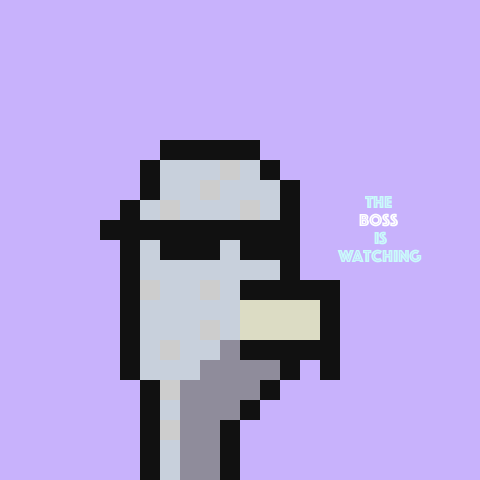
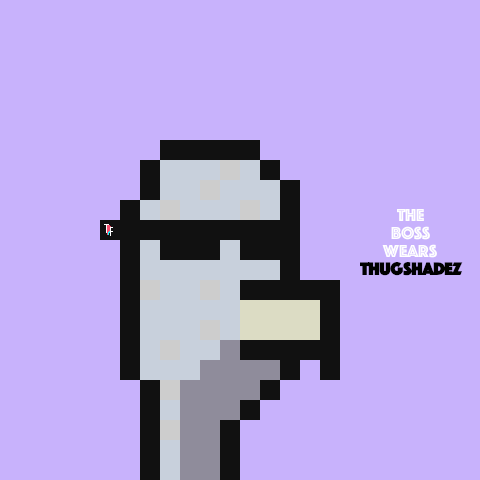
Add files via upload

Changed region(s): [[0.6875, 0.4062, 0.9688, 0.5938], [0.2188, 0.4688, 0.25, 0.5]]

diff --git a/index.html b/index.html
@@ -1,1 +1,1 @@
-<!doctype html><html lang="en"><head><meta charset="utf-8"/><link rel="icon" href="/favicon-16x16.png"/><meta name="viewport" content="width=device-width,initial-scale=1"/><meta name="theme-color" content="#000000"/><meta name="description" content="thugbirdz yo"/><script type="text/javascript" src="Scripts/bootstrap.min.js"></script><script type="text/javascript" src="Scripts/jquery-2.1.1.min.js"></script><link rel="stylesheet" href="https://stackpath.bootstrapcdn.com/bootstrap/4.3.1/css/bootstrap.min.css"/><title>finance that is thug yo</title><script src="https://code.jquery.com/jquery-3.2.1.slim.min.js" integrity="sha384-KJ3o2DKtIkvYIK3UENzmM7KCkRr/rE9/Qpg6aAZGJwFDMVNA/GpGFF93hXpG5KkN" crossorigin="anonymous"></script><script src="https://cdnjs.cloudflare.com/ajax/libs/popper.js/1.12.9/umd/popper.min.js" integrity="sha384-ApNbgh9B+Y1QKtv3Rn7W3mgPxhU9K/ScQsAP7hUibX39j7fakFPskvXusvfa0b4Q" crossorigin="anonymous"></script><script src="https://maxcdn.bootstrapcdn.com/bootstrap/4.0.0/js/bootstrap.min.js" integrity="sha384-JZR6Spejh4U02d8jOt6vLEHfe/JQGiRRSQQxSfFWpi1MquVdAyjUar5+76PVCmYl" crossorigin="anonymous"></script><link href="/static/css/main.79418086.chunk.css" rel="stylesheet"></head><body><noscript>You need to enable JavaScript to run this app.</noscript><div id="root"></div><script>!function(e){function t(t){for(var n,i,a=t[0],c=t[1],l=t[2],s=0,p=[];s<a.length;s++)i=a[s],Object.prototype.hasOwnProperty.call(o,i)&&o[i]&&p.push(o[i][0]),o[i]=0;for(n in c)Object.prototype.hasOwnProperty.call(c,n)&&(e[n]=c[n]);for(f&&f(t);p.length;)p.shift()();return u.push.apply(u,l||[]),r()}function r(){for(var e,t=0;t<u.length;t++){for(var r=u[t],n=!0,a=1;a<r.length;a++){var c=r[a];0!==o[c]&&(n=!1)}n&&(u.splice(t--,1),e=i(i.s=r[0]))}return e}var n={},o={1:0},u=[];function i(t){if(n[t])return n[t].exports;var r=n[t]={i:t,l:!1,exports:{}};return e[t].call(r.exports,r,r.exports,i),r.l=!0,r.exports}i.e=function(e){var t=[],r=o[e];if(0!==r)if(r)t.push(r[2]);else{var n=new Promise((function(t,n){r=o[e]=[t,n]}));t.push(r[2]=n);var u,a=document.createElement("script");a.charset="utf-8",a.timeout=120,i.nc&&a.setAttribute("nonce",i.nc),a.src=function(e){return i.p+"static/js/"+({}[e]||e)+"."+{3:"16f1c55b"}[e]+".chunk.js"}(e);var c=new Error;u=function(t){a.onerror=a.onload=null,clearTimeout(l);var r=o[e];if(0!==r){if(r){var n=t&&("load"===t.type?"missing":t.type),u=t&&t.target&&t.target.src;c.message="Loading chunk "+e+" failed.\n("+n+": "+u+")",c.name="ChunkLoadError",c.type=n,c.request=u,r[1](c)}o[e]=void 0}};var l=setTimeout((function(){u({type:"timeout",target:a})}),12e4);a.onerror=a.onload=u,document.head.appendChild(a)}return Promise.all(t)},i.m=e,i.c=n,i.d=function(e,t,r){i.o(e,t)||Object.defineProperty(e,t,{enumerable:!0,get:r})},i.r=function(e){"undefined"!=typeof Symbol&&Symbol.toStringTag&&Object.defineProperty(e,Symbol.toStringTag,{value:"Module"}),Object.defineProperty(e,"__esModule",{value:!0})},i.t=function(e,t){if(1&t&&(e=i(e)),8&t)return e;if(4&t&&"object"==typeof e&&e&&e.__esModule)return e;var r=Object.create(null);if(i.r(r),Object.defineProperty(r,"default",{enumerable:!0,value:e}),2&t&&"string"!=typeof e)for(var n in e)i.d(r,n,function(t){return e[t]}.bind(null,n));return r},i.n=function(e){var t=e&&e.__esModule?function(){return e.default}:function(){return e};return i.d(t,"a",t),t},i.o=function(e,t){return Object.prototype.hasOwnProperty.call(e,t)},i.p="/",i.oe=function(e){throw console.error(e),e};var a=this.webpackJsonpthugsite=this.webpackJsonpthugsite||[],c=a.push.bind(a);a.push=t,a=a.slice();for(var l=0;l<a.length;l++)t(a[l]);var f=c;r()}([])</script><script src="/static/js/2.a4854e35.chunk.js"></script><script src="/static/js/main.5f388c5b.chunk.js"></script></body></html>
+<!doctype html><html lang="en"><head><meta charset="utf-8"/><link rel="icon" href="/favicon-16x16.png"/><meta name="viewport" content="width=device-width,initial-scale=1"/><meta name="theme-color" content="#000000"/><meta name="description" content="thugbirdz yo"/><script type="text/javascript" src="Scripts/bootstrap.min.js"></script><script type="text/javascript" src="Scripts/jquery-2.1.1.min.js"></script><link rel="stylesheet" href="https://stackpath.bootstrapcdn.com/bootstrap/4.3.1/css/bootstrap.min.css"/><title>let's get this BREAD</title><script src="https://code.jquery.com/jquery-3.2.1.slim.min.js" integrity="sha384-KJ3o2DKtIkvYIK3UENzmM7KCkRr/rE9/Qpg6aAZGJwFDMVNA/GpGFF93hXpG5KkN" crossorigin="anonymous"></script><script src="https://cdnjs.cloudflare.com/ajax/libs/popper.js/1.12.9/umd/popper.min.js" integrity="sha384-ApNbgh9B+Y1QKtv3Rn7W3mgPxhU9K/ScQsAP7hUibX39j7fakFPskvXusvfa0b4Q" crossorigin="anonymous"></script><script src="https://maxcdn.bootstrapcdn.com/bootstrap/4.0.0/js/bootstrap.min.js" integrity="sha384-JZR6Spejh4U02d8jOt6vLEHfe/JQGiRRSQQxSfFWpi1MquVdAyjUar5+76PVCmYl" crossorigin="anonymous"></script><link href="/static/css/main.79418086.chunk.css" rel="stylesheet"></head><body><noscript>You need to enable JavaScript to run this app.</noscript><div id="root"></div><script>!function(e){function t(t){for(var n,i,a=t[0],c=t[1],l=t[2],s=0,p=[];s<a.length;s++)i=a[s],Object.prototype.hasOwnProperty.call(o,i)&&o[i]&&p.push(o[i][0]),o[i]=0;for(n in c)Object.prototype.hasOwnProperty.call(c,n)&&(e[n]=c[n]);for(f&&f(t);p.length;)p.shift()();return u.push.apply(u,l||[]),r()}function r(){for(var e,t=0;t<u.length;t++){for(var r=u[t],n=!0,a=1;a<r.length;a++){var c=r[a];0!==o[c]&&(n=!1)}n&&(u.splice(t--,1),e=i(i.s=r[0]))}return e}var n={},o={1:0},u=[];function i(t){if(n[t])return n[t].exports;var r=n[t]={i:t,l:!1,exports:{}};return e[t].call(r.exports,r,r.exports,i),r.l=!0,r.exports}i.e=function(e){var t=[],r=o[e];if(0!==r)if(r)t.push(r[2]);else{var n=new Promise((function(t,n){r=o[e]=[t,n]}));t.push(r[2]=n);var u,a=document.createElement("script");a.charset="utf-8",a.timeout=120,i.nc&&a.setAttribute("nonce",i.nc),a.src=function(e){return i.p+"static/js/"+({}[e]||e)+"."+{3:"16f1c55b"}[e]+".chunk.js"}(e);var c=new Error;u=function(t){a.onerror=a.onload=null,clearTimeout(l);var r=o[e];if(0!==r){if(r){var n=t&&("load"===t.type?"missing":t.type),u=t&&t.target&&t.target.src;c.message="Loading chunk "+e+" failed.\n("+n+": "+u+")",c.name="ChunkLoadError",c.type=n,c.request=u,r[1](c)}o[e]=void 0}};var l=setTimeout((function(){u({type:"timeout",target:a})}),12e4);a.onerror=a.onload=u,document.head.appendChild(a)}return Promise.all(t)},i.m=e,i.c=n,i.d=function(e,t,r){i.o(e,t)||Object.defineProperty(e,t,{enumerable:!0,get:r})},i.r=function(e){"undefined"!=typeof Symbol&&Symbol.toStringTag&&Object.defineProperty(e,Symbol.toStringTag,{value:"Module"}),Object.defineProperty(e,"__esModule",{value:!0})},i.t=function(e,t){if(1&t&&(e=i(e)),8&t)return e;if(4&t&&"object"==typeof e&&e&&e.__esModule)return e;var r=Object.create(null);if(i.r(r),Object.defineProperty(r,"default",{enumerable:!0,value:e}),2&t&&"string"!=typeof e)for(var n in e)i.d(r,n,function(t){return e[t]}.bind(null,n));return r},i.n=function(e){var t=e&&e.__esModule?function(){return e.default}:function(){return e};return i.d(t,"a",t),t},i.o=function(e,t){return Object.prototype.hasOwnProperty.call(e,t)},i.p="/",i.oe=function(e){throw console.error(e),e};var a=this.webpackJsonpthugsite=this.webpackJsonpthugsite||[],c=a.push.bind(a);a.push=t,a=a.slice();for(var l=0;l<a.length;l++)t(a[l]);var f=c;r()}([])</script><script src="/static/js/2.a4854e35.chunk.js"></script><script src="/static/js/main.892586b6.chunk.js"></script></body></html>

diff --git a/static/js/main.892586b6.chunk.js b/static/js/main.892586b6.chunk.js
@@ -1,0 +1,2 @@
+(this.webpackJsonpthugsite=this.webpackJsonpthugsite||[]).push([[0],{21:function(e,c,t){},28:function(e,c,t){},29:function(e,c,t){"use strict";t.r(c);var s=t(1),n=t.n(s),a=t(14),j=t.n(a),r=(t(21),t(11)),l=t(2),i=t(0);var b=Object(l.f)((function(e){return Object(i.jsx)("div",{className:"navigation",style:{backgroundColor:"#C8B2FC"},children:Object(i.jsxs)("nav",{class:"navbar navbar-expand-lg navbar-light",children:[Object(i.jsx)("a",{class:"navbar-brand",href:"/",children:Object(i.jsx)("img",{src:"favicon-96x96.png",alt:"birds that are thugs yo"})}),Object(i.jsx)("button",{class:"navbar-toggler",type:"button","data-toggle":"collapse","data-target":"#navbarNavDropdown","aria-controls":"navbarNavDropdown","aria-expanded":"false","aria-label":"Toggle navigation",children:Object(i.jsx)("span",{class:"navbar-toggler-icon"})}),Object(i.jsx)("div",{class:"collapse navbar-collapse",id:"navbarNavDropdown",children:Object(i.jsxs)("ul",{class:"navbar-nav",children:[Object(i.jsx)("li",{class:"nav-item active",children:Object(i.jsxs)("a",{class:"nav-link",href:"/",children:[Object(i.jsx)("b",{children:"thugfinance"}),Object(i.jsx)("span",{class:"sr-only",children:"(current)"})]})}),Object(i.jsx)("li",{class:"nav-item",children:Object(i.jsx)("a",{class:"nav-link",href:"/about",children:Object(i.jsx)("b",{children:"about"})})}),Object(i.jsx)("li",{class:"nav-item",children:Object(i.jsx)("a",{class:"nav-link",href:"/roadmap",children:Object(i.jsx)("b",{children:"roadmap"})})}),Object(i.jsx)("li",{class:"nav-item",children:Object(i.jsx)("a",{class:"nav-link",href:"/FAQ",children:Object(i.jsx)("b",{children:"faq"})})})]})})]})})}));var h=function(){return Object(i.jsxs)("div",{className:"home",children:[Object(i.jsx)("br",{}),Object(i.jsx)("h2",{class:"Header3",children:"welcome 2"}),Object(i.jsx)("h2",{class:"Header",children:Object(i.jsx)("b",{children:"thug finance"})}),Object(i.jsx)("div",{class:"container",children:Object(i.jsxs)("div",{class:"row align-items-center my-5",children:[Object(i.jsx)("div",{class:"col-lg-6",children:Object(i.jsx)("img",{class:"img-fluid rounded mb-4 mb-lg-0",src:"gif.gif",alt:""})}),Object(i.jsxs)("div",{class:"col-lg-3",children:[Object(i.jsx)("ul",{class:"list-unstyled text-center",children:Object(i.jsx)("li",{class:"item",children:"get access with"})}),Object(i.jsx)("h2",{class:"Header3",children:"thug"}),Object(i.jsx)("h2",{class:"Header3",children:"shadez"}),Object(i.jsx)("br",{}),Object(i.jsxs)("ul",{class:"list-unstyled text-center",children:[Object(i.jsx)("li",{class:"item",children:"launching on the 22nd of February"}),Object(i.jsx)("li",{class:"item",children:"at 22:22 UTC"})]})]})]})})]})};var d=function(){return Object(i.jsxs)("div",{className:"about",children:[Object(i.jsx)("br",{}),Object(i.jsx)("br",{}),Object(i.jsx)("h3",{class:"Header3",children:" about "}),Object(i.jsxs)("ul",{class:"list-unstyled text-center",children:[Object(i.jsx)("br",{}),Object(i.jsx)("li",{class:"item",children:"finance that is thug yo"}),Object(i.jsx)("br",{}),Object(i.jsx)("li",{class:"item",children:"get access with thugbirdz or thugshadez"})]})]})};var x=function(){return Object(i.jsxs)("div",{className:"roadmap",children:[Object(i.jsx)("br",{}),Object(i.jsx)("br",{}),Object(i.jsx)("h3",{class:"Header3",children:" roadmap "}),Object(i.jsx)("br",{}),Object(i.jsx)("br",{}),Object(i.jsx)("h3",{class:"Header2",children:Object(i.jsx)("b",{children:"now"})}),Object(i.jsx)("p",{children:"release the thug finance shadez"}),Object(i.jsx)("p",{children:"release the thug finance platform"}),Object(i.jsx)("br",{}),Object(i.jsx)("br",{}),Object(i.jsx)("h3",{class:"Header2",children:Object(i.jsx)("b",{children:"wip"})}),Object(i.jsx)("p",{children:"complete thug finance nft collection"}),Object(i.jsx)("p",{children:"complete thug finance decentralized game"}),Object(i.jsx)("br",{}),Object(i.jsx)("br",{}),Object(i.jsxs)("h3",{class:"Header2",children:[" ",Object(i.jsx)("b",{children:"next"})]}),Object(i.jsx)("p",{children:"open thug finance to public"}),Object(i.jsx)("p",{children:"open thug finance to public"})]})};var O=function(){return Object(i.jsxs)("div",{className:"faq",children:[Object(i.jsx)("br",{}),Object(i.jsx)("br",{}),Object(i.jsx)("h3",{class:"Header3",children:" faq "}),Object(i.jsx)("br",{}),Object(i.jsx)("br",{}),Object(i.jsx)("h3",{class:"Header2",children:Object(i.jsx)("b",{children:" what is thug finance? "})}),Object(i.jsx)("p",{children:"finance platform and nft experience launching on solana"}),Object(i.jsx)("h3",{class:"Header2",children:Object(i.jsx)("b",{children:" who will be able to access thug finance? "})}),Object(i.jsx)("p",{children:"thugbirdz and thugshadez hodlers"}),Object(i.jsx)("br",{}),Object(i.jsx)("br",{}),Object(i.jsx)("h3",{class:"Header2",children:Object(i.jsx)("b",{children:" total supply of thug shadez? "})}),Object(i.jsx)("p",{children:"there will only be 2222"}),Object(i.jsx)("h3",{class:"Header2",children:Object(i.jsx)("b",{children:" how much will minting be? "})}),Object(i.jsx)("p",{children:"2.2 SOL"}),Object(i.jsx)("h3",{class:"Header2",children:Object(i.jsx)("b",{children:" when is the mint? "})}),Object(i.jsx)("p",{children:" 22nd of February at 22:22 UTC"}),Object(i.jsx)("br",{}),Object(i.jsx)("br",{}),Object(i.jsx)("h3",{class:"Header2",children:Object(i.jsx)("b",{children:" will i be considered cool if i buy thug shadez? "})}),Object(i.jsx)("p",{children:" thug yeah"}),Object(i.jsx)("br",{}),Object(i.jsx)("br",{})]})};t(28);var o=function(){return Object(i.jsx)("div",{className:"App",children:Object(i.jsxs)(r.a,{children:[Object(i.jsx)(b,{}),Object(i.jsxs)(l.c,{children:[Object(i.jsx)(l.a,{path:"/",exact:!0,component:function(){return Object(i.jsx)(h,{})}}),Object(i.jsx)(l.a,{path:"/TF",exact:!0,component:function(){return Object(i.jsx)(h,{})}}),Object(i.jsx)(l.a,{path:"/about",exact:!0,component:function(){return Object(i.jsx)(d,{})}}),Object(i.jsx)(l.a,{path:"/roadmap",exact:!0,component:function(){return Object(i.jsx)(x,{})}}),Object(i.jsx)(l.a,{path:"/faq",exact:!0,component:function(){return Object(i.jsx)(O,{})}})]})]})})},u=function(e){e&&e instanceof Function&&t.e(3).then(t.bind(null,30)).then((function(c){var t=c.getCLS,s=c.getFID,n=c.getFCP,a=c.getLCP,j=c.getTTFB;t(e),s(e),n(e),a(e),j(e)}))};j.a.render(Object(i.jsx)(n.a.StrictMode,{children:Object(i.jsx)(o,{})}),document.getElementById("root")),u()}},[[29,1,2]]]);
+//# sourceMappingURL=main.892586b6.chunk.js.map
